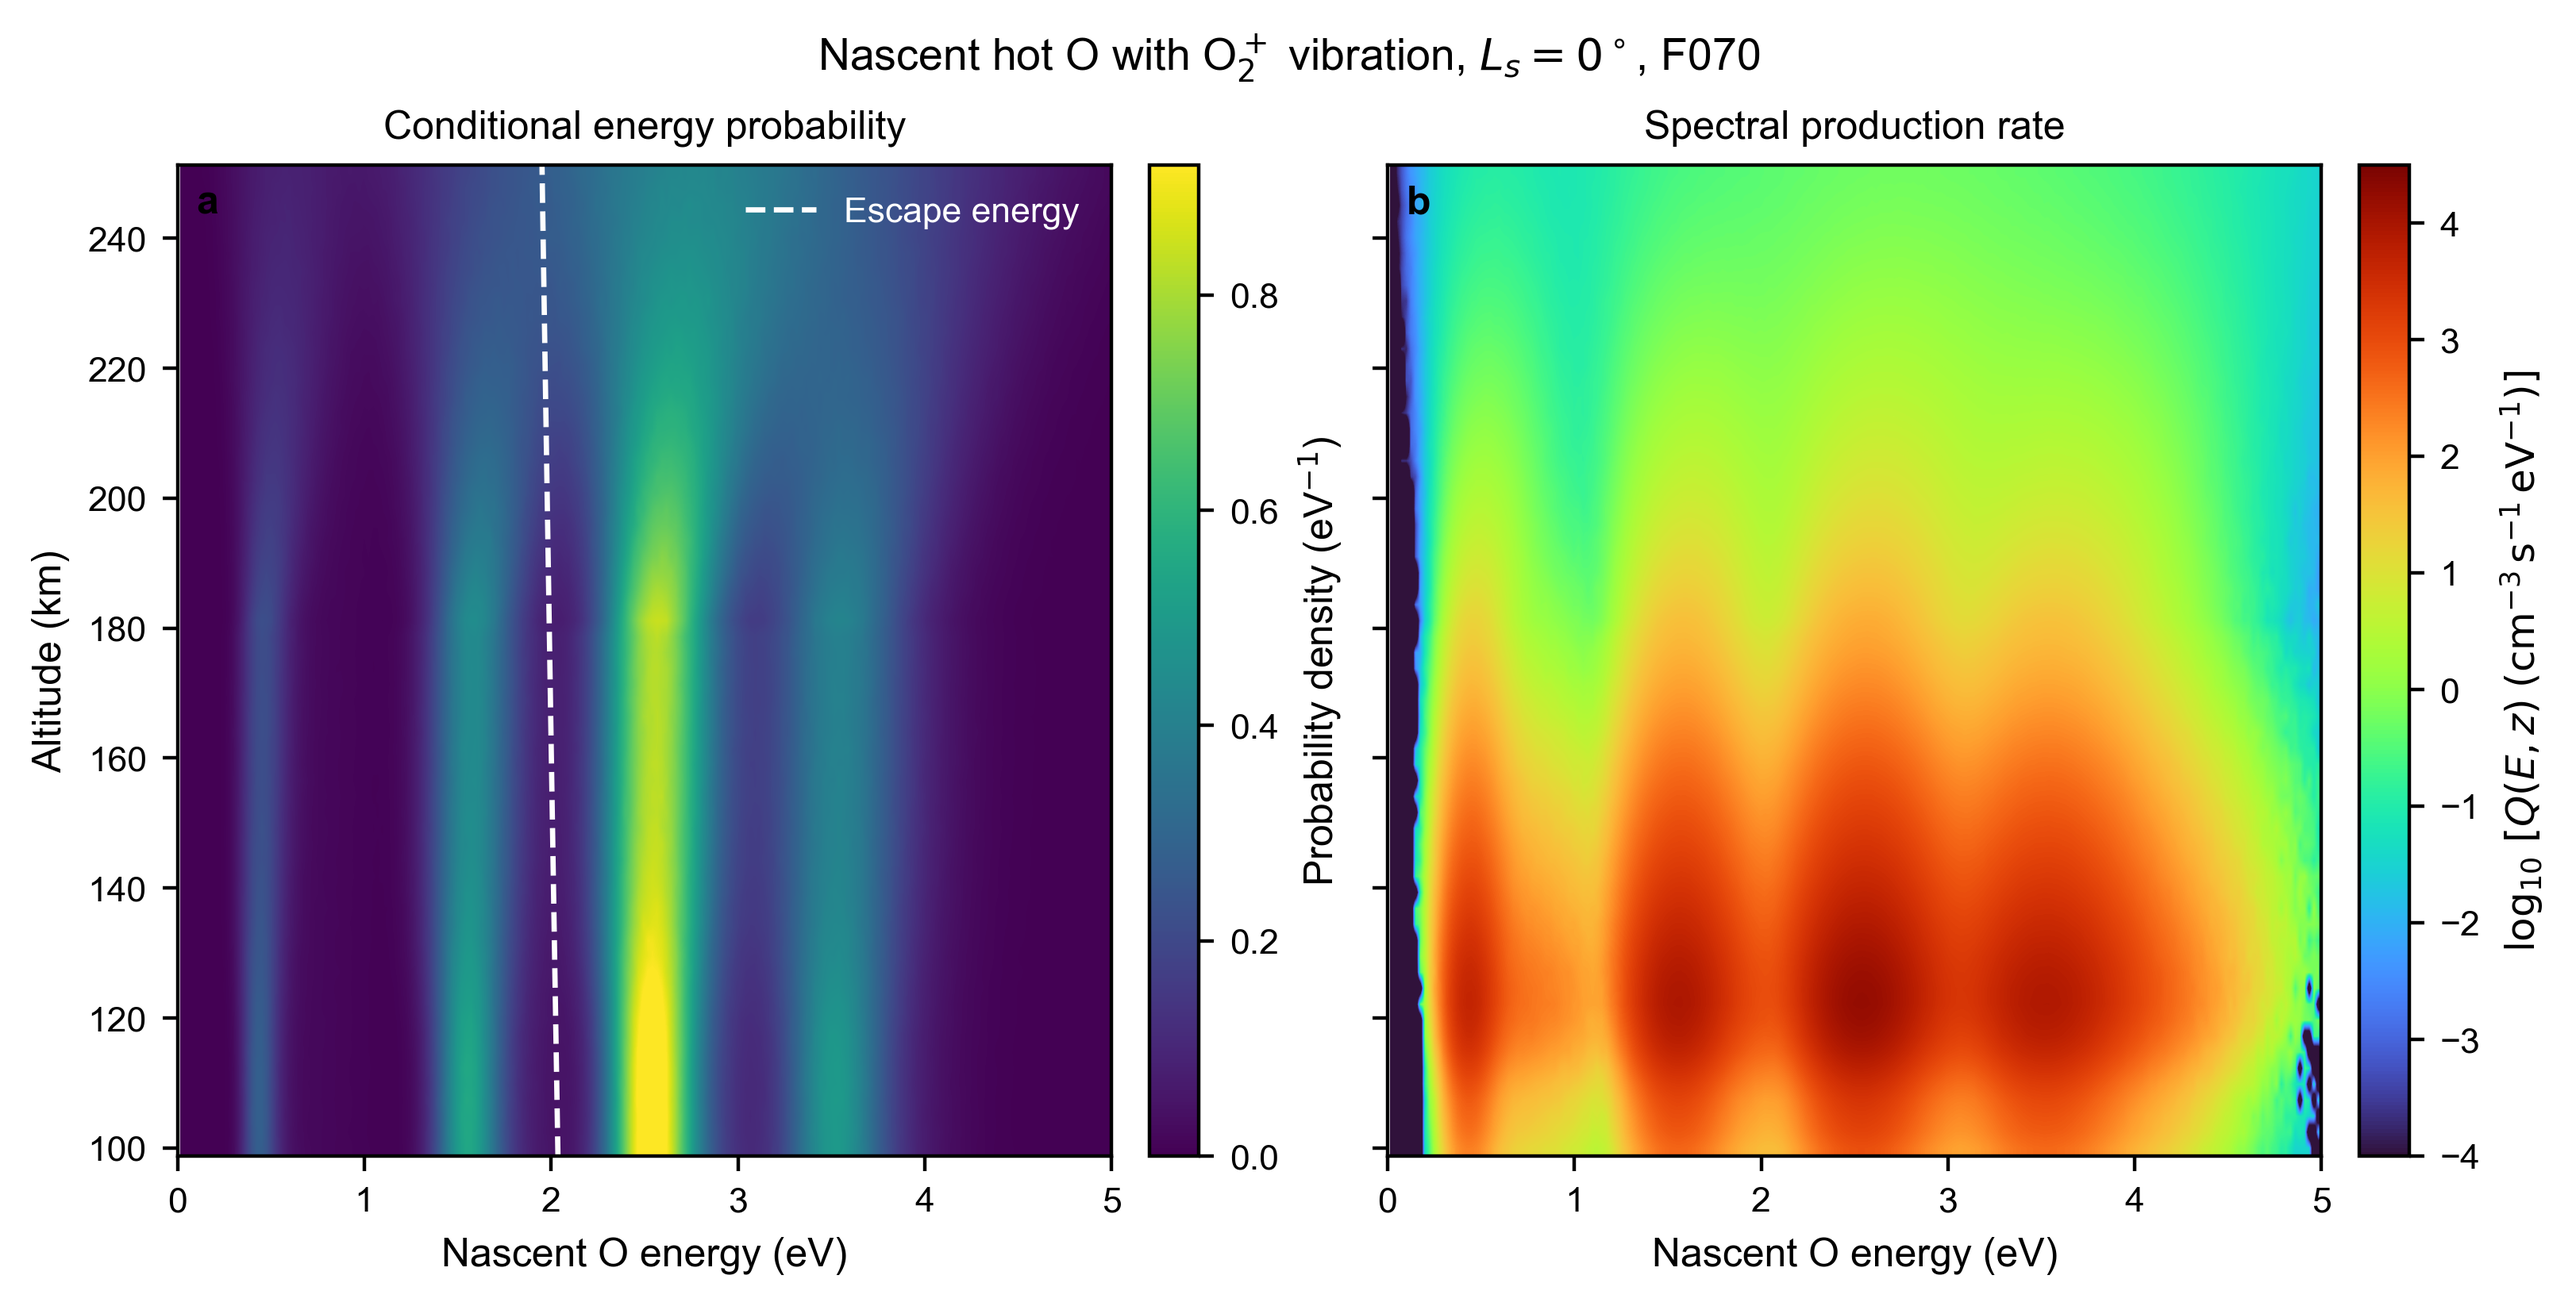
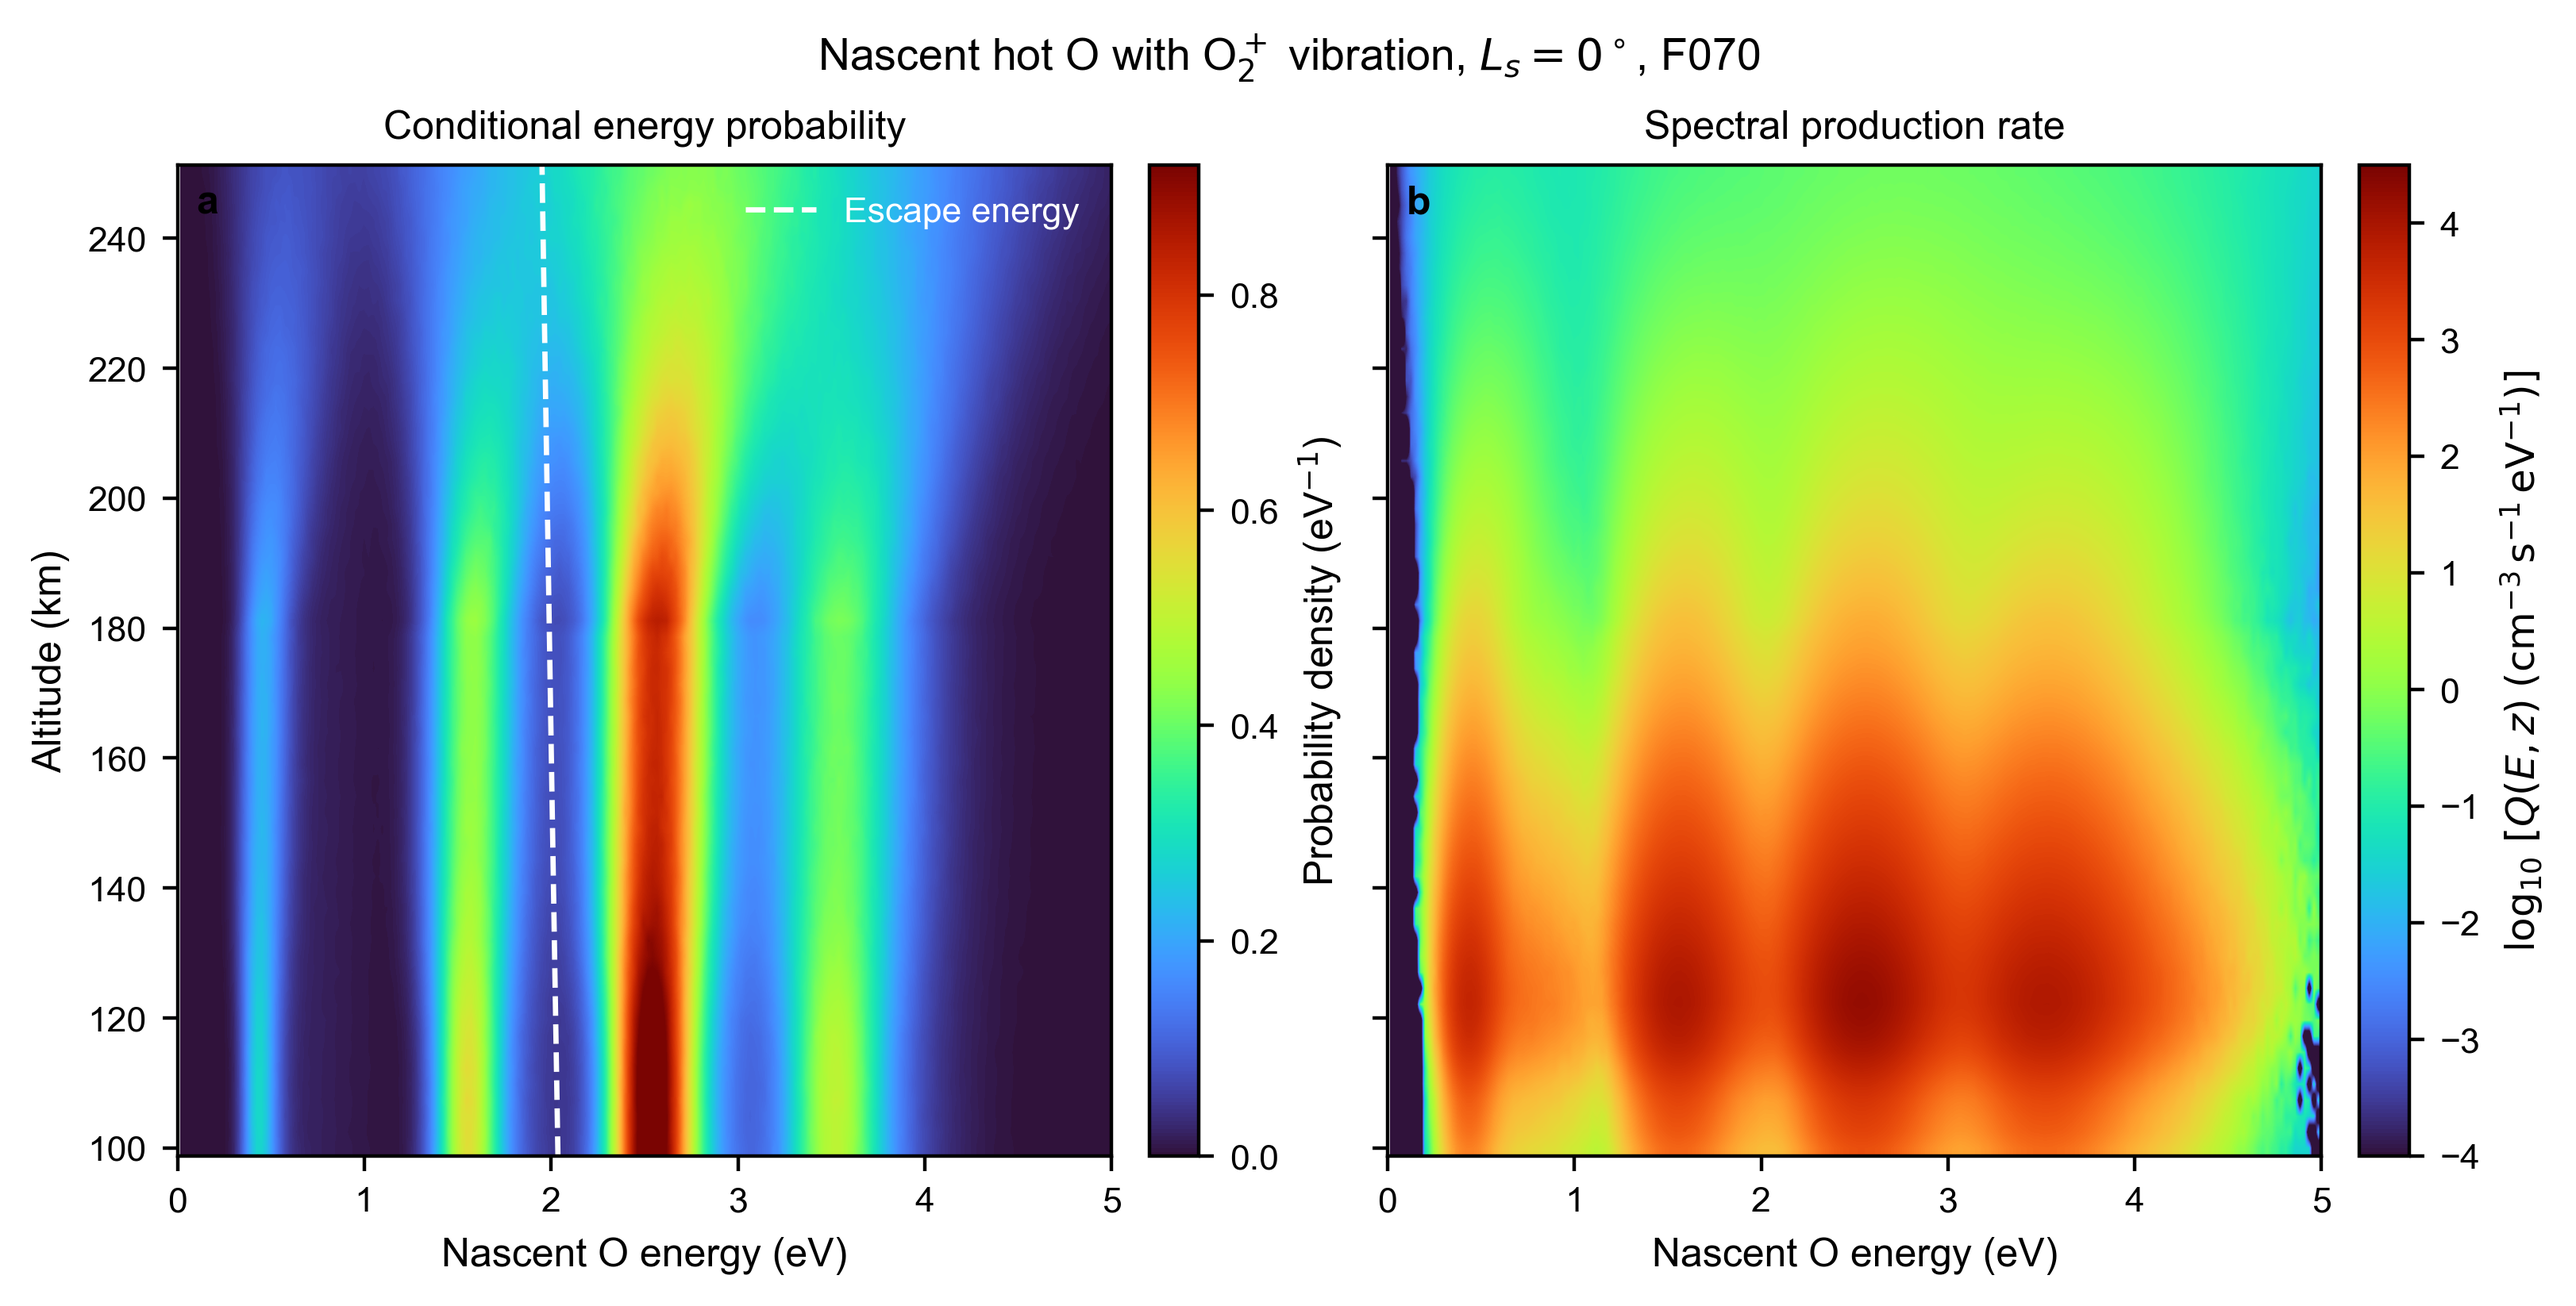
Use turbo colormap for both energy panels

Changed region(s): [[0.0622, 0.1239, 0.4669, 0.8985]]

diff --git a/reproduce_hot_o_nascent_energy_map.py b/reproduce_hot_o_nascent_energy_map.py
@@ -294,7 +294,7 @@ def make_combined_figure(
             float(altitude_km[-1]),
         ),
         interpolation=PLOT_INTERPOLATION,
-        cmap="viridis",
+        cmap="turbo",
         vmin=0.0,
         vmax=float(np.percentile(positive_values, 99.5)),
         rasterized=True,
